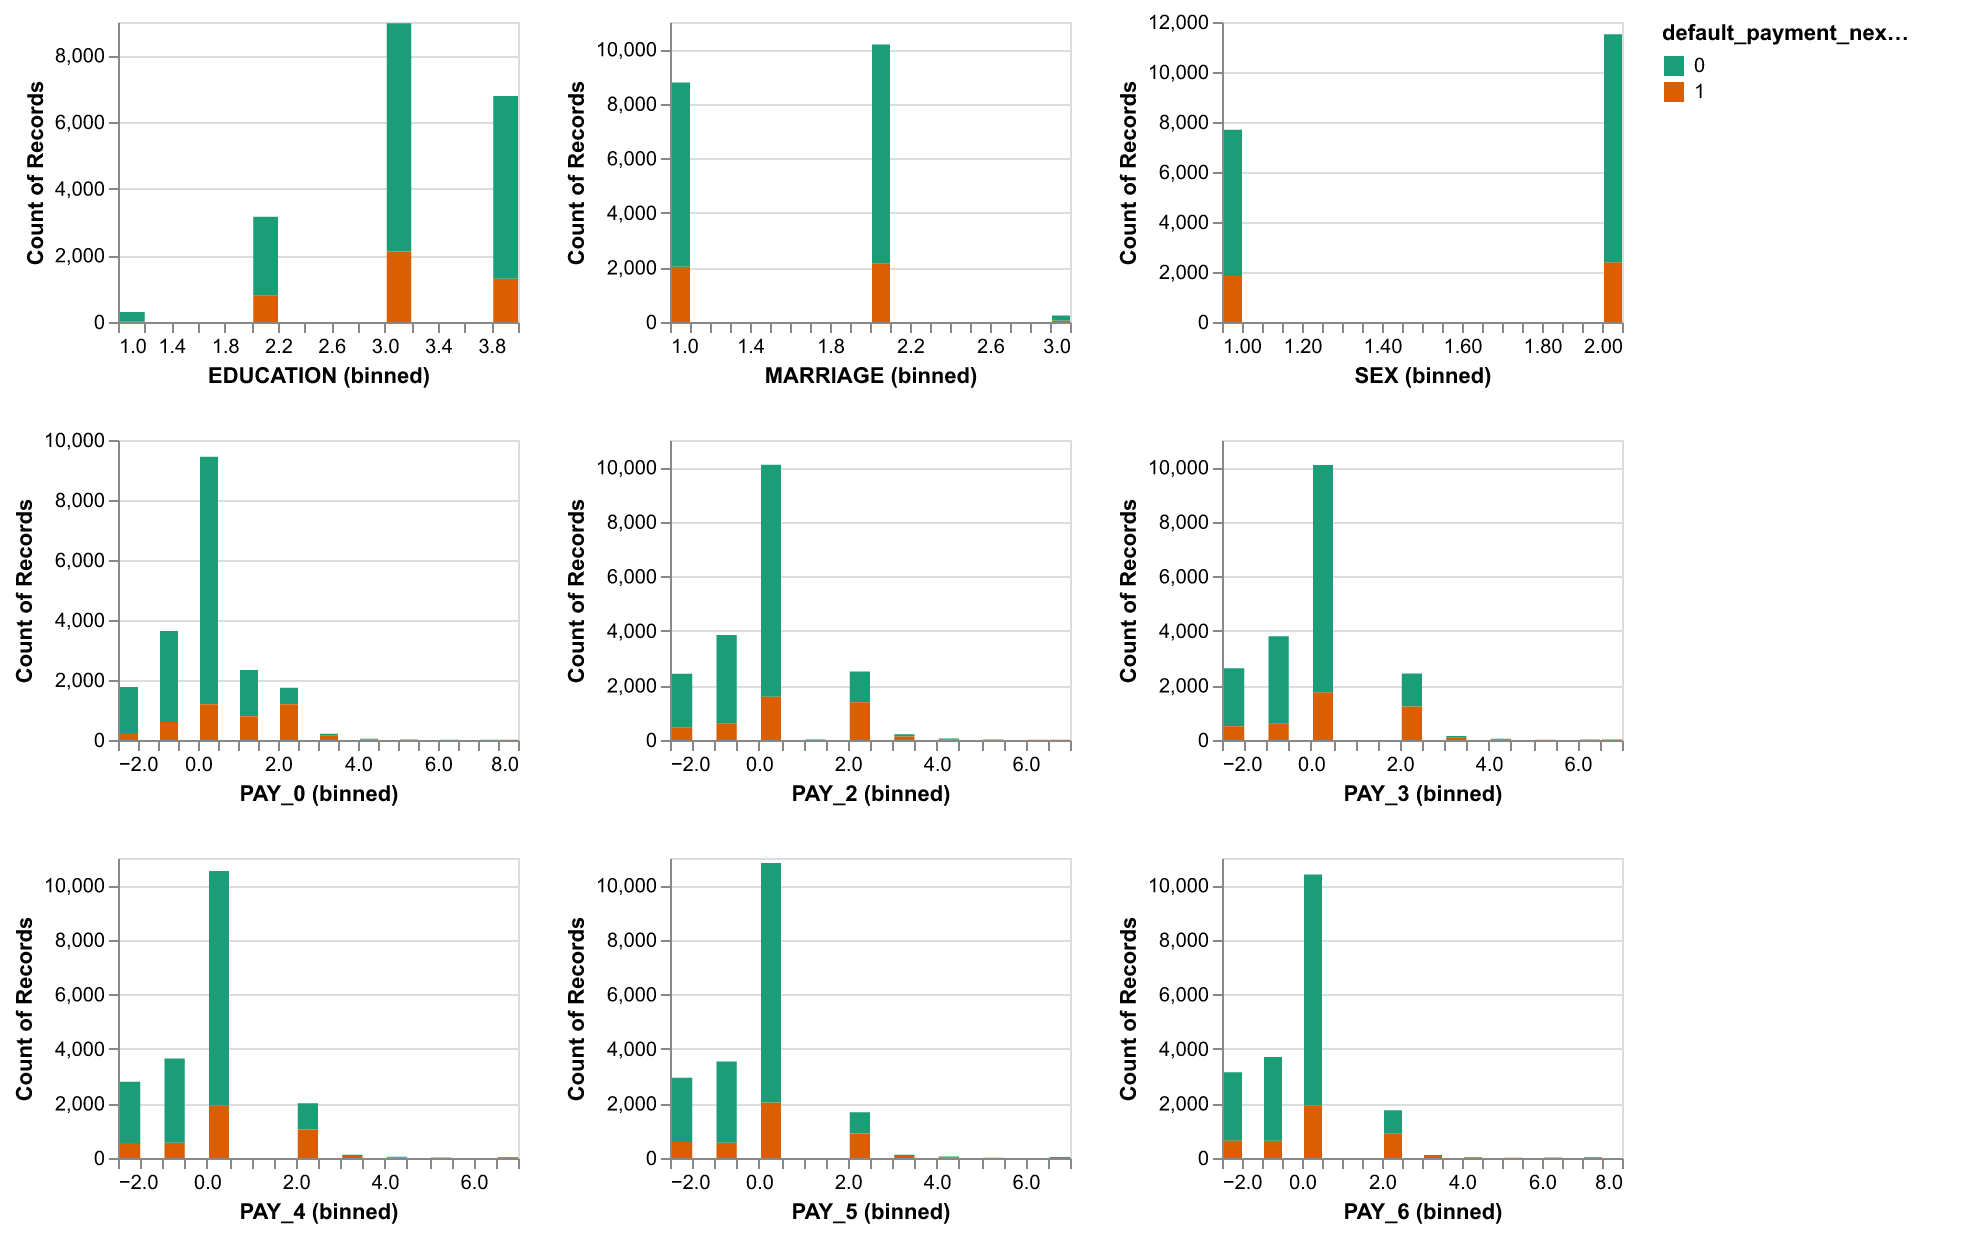
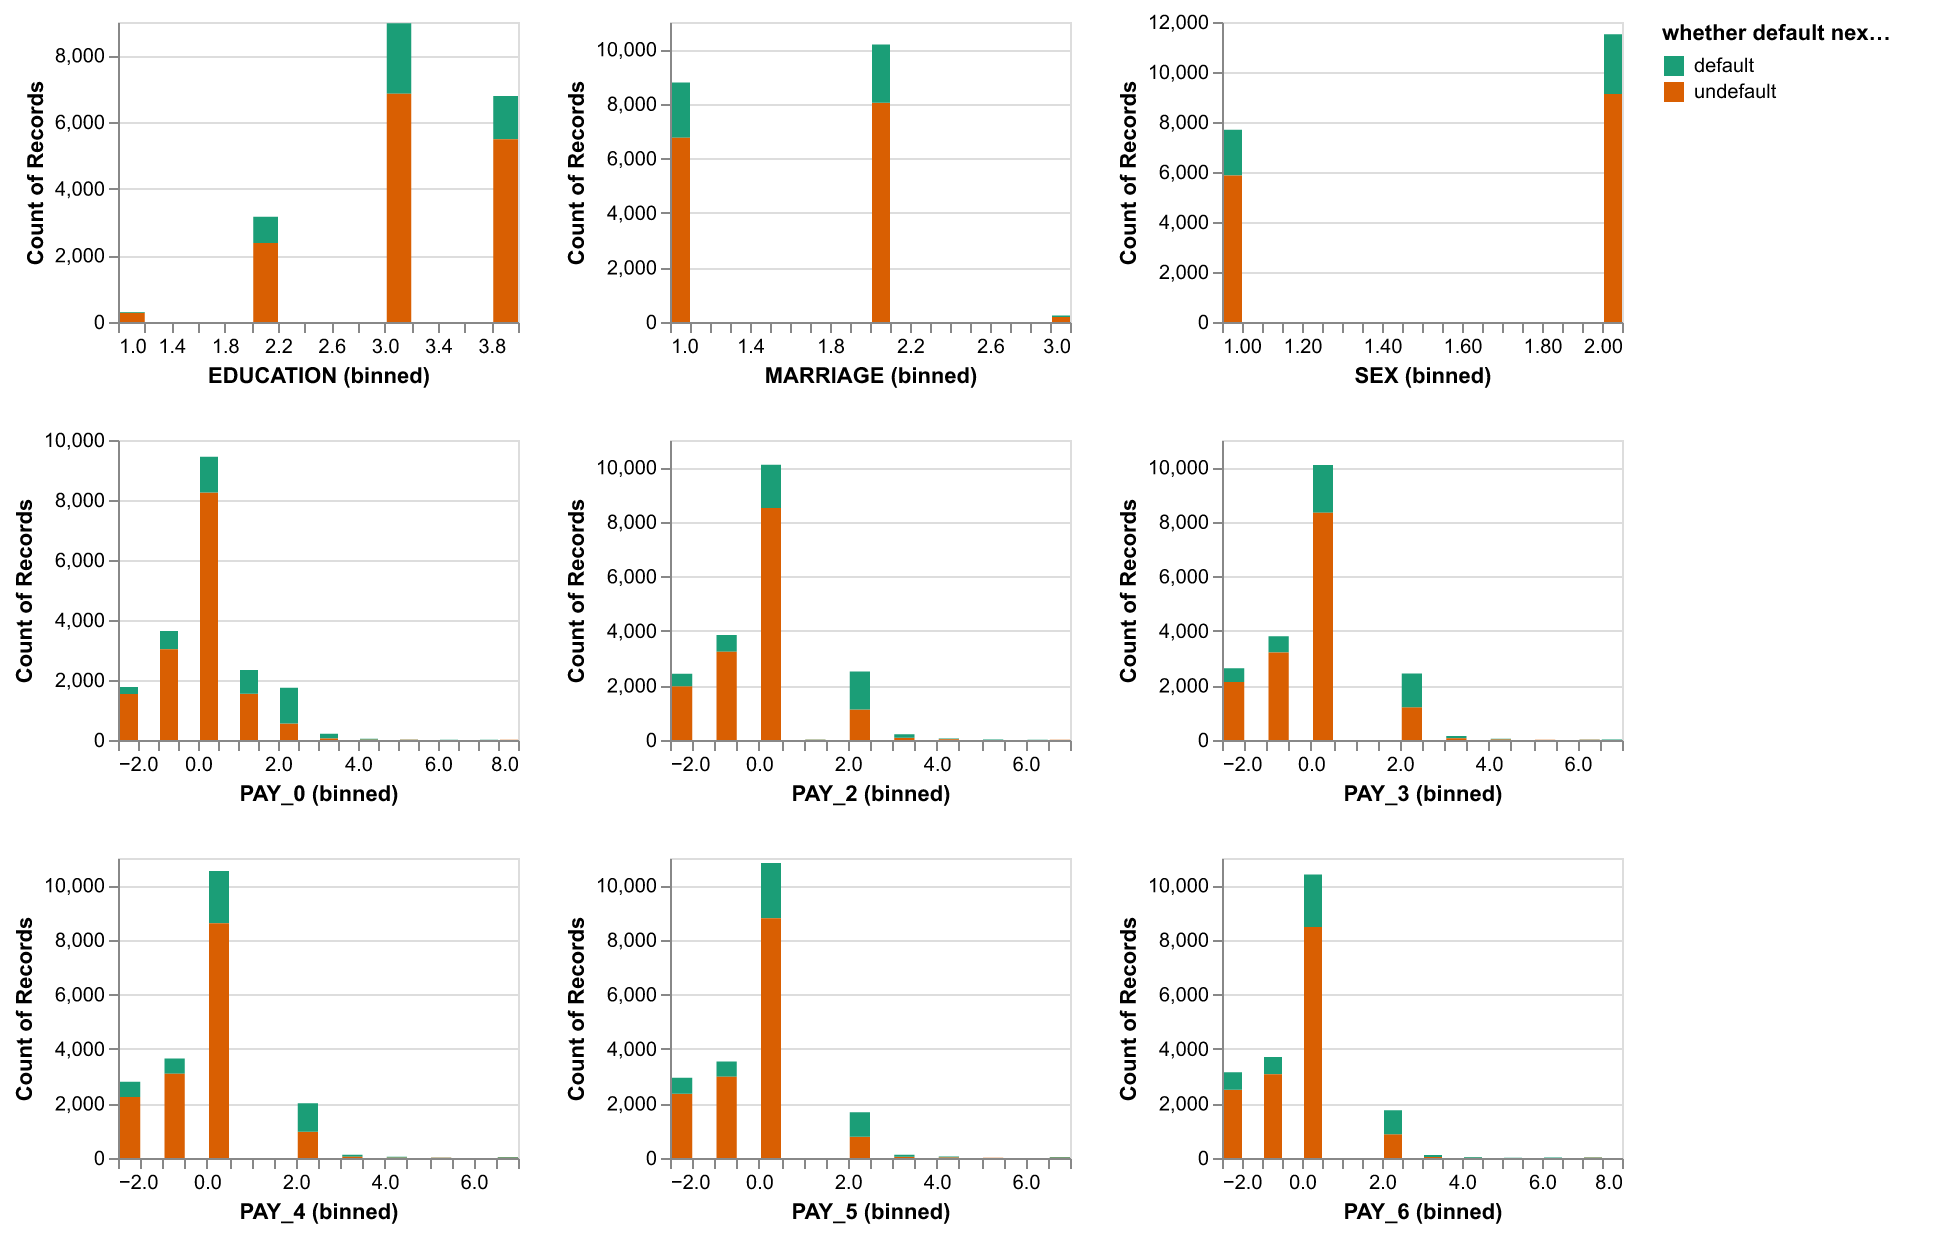
default-undefault

diff --git a/src/eda_script.py b/src/eda_script.py
@@ -97,7 +97,7 @@ def main(processed_data_path, eda_result_path):
     train_df, test_df = train_test_split(credit_df, test_size=0.2, random_state=522)
     #pie chart
     plt.pie(credit_df['default_payment_next_month'].value_counts(), 
-        labels=['0','1'],
+        labels=['undefualt','default'],
         colors=["#d5695d", "#5d8ca8"],
         autopct='%.2f%%',)
     plt.title('proportion of target classes')
@@ -107,6 +107,12 @@ def main(processed_data_path, eda_result_path):
     ##test assert if pie chart
     assert plt is not None
     
+    ##default-undefualt
+    train_df['whether default next month'] = 'undefault'
+    train_df.loc[train_df['default_payment_next_month'] == 1, 'whether default next month'] = 'default'
+    
+    
+    
     #numeric dis
     num_cols = ["LIMIT_BAL", "AGE", "BILL_AMT1", "BILL_AMT2", "BILL_AMT3", "BILL_AMT4", 
             "BILL_AMT5", "BILL_AMT6", "PAY_AMT1",  "PAY_AMT2",  "PAY_AMT3", 
@@ -114,17 +120,17 @@ def main(processed_data_path, eda_result_path):
     numeric_dis=alt.Chart(train_df).mark_bar().encode(
      alt.X(alt.repeat(), type='quantitative', bin=alt.Bin(maxbins=30)),
      y='count()',
-    color=alt.Color('default_payment_next_month', scale=alt.Scale( scheme='purpleorange'))).properties( width=200,height=150).repeat(num_cols,columns=3)
+    color=alt.Color('whether default next month', scale=alt.Scale( scheme='purpleorange'))).properties( width=200,height=150).repeat(num_cols,columns=3)
     save_chart(numeric_dis, './'+eda_result_path+'/eda/images/numeric_dis.png', 2)
     
     ##test assert if numeric_dis created
     assert numeric_dis is not None
-    
+ 
     #categorical dis
     cat_col = ["EDUCATION", "MARRIAGE", "SEX", "PAY_0", "PAY_2", "PAY_3", "PAY_4", "PAY_5", "PAY_6"]
     categorical_dis=alt.Chart(train_df).mark_bar().encode(
         alt.X(alt.repeat(), type='quantitative', bin=alt.Bin(maxbins=20)),y='count()',
-      color=alt.Color('default_payment_next_month', scale=alt.Scale( scheme='dark2'))
+      color=alt.Color('whether default next month', scale=alt.Scale( scheme='dark2'))
     ).properties(width=200,height=150).repeat(cat_col,columns=3)
     save_chart(categorical_dis,'./'+eda_result_path+'/eda/images/categorical_dis.png', 2)
     
